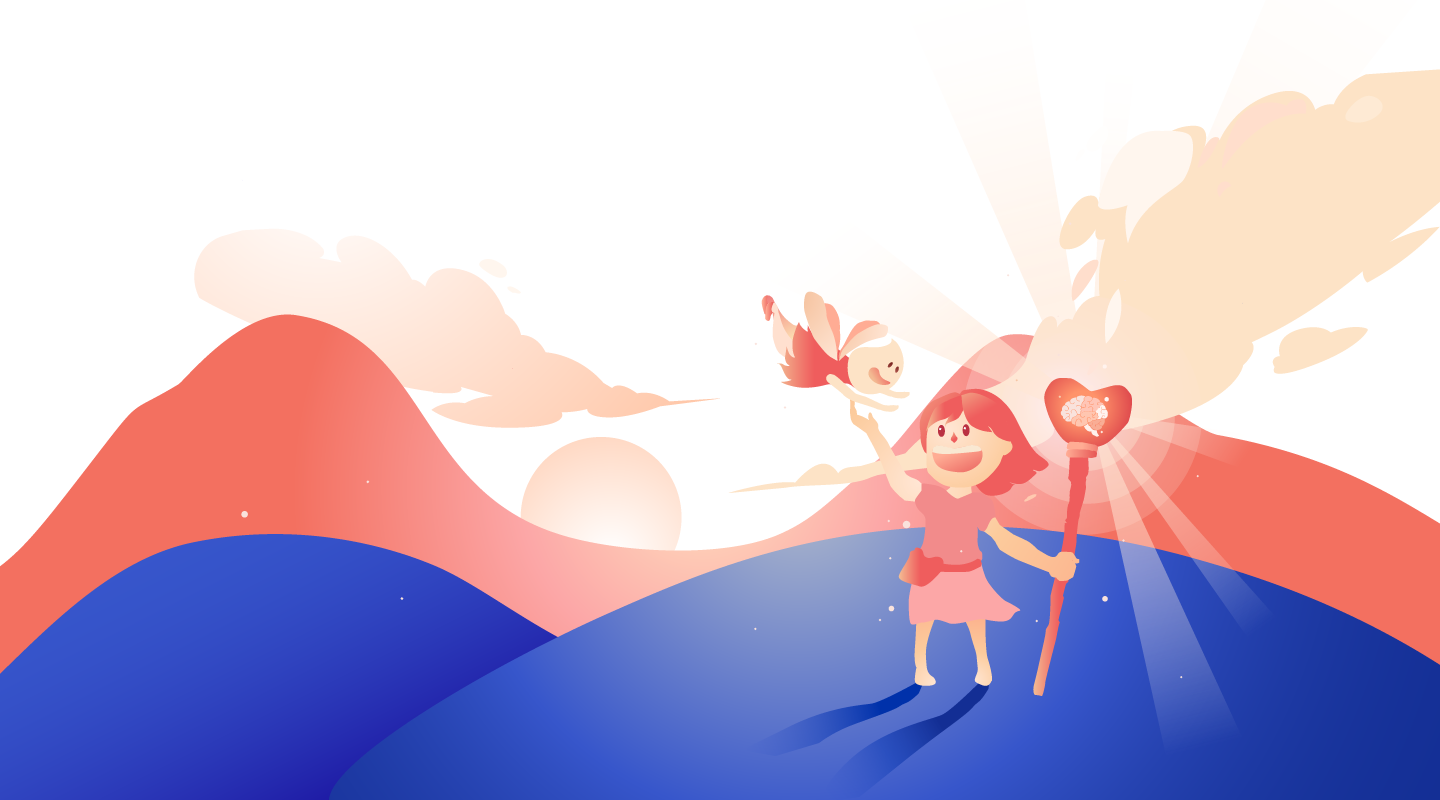
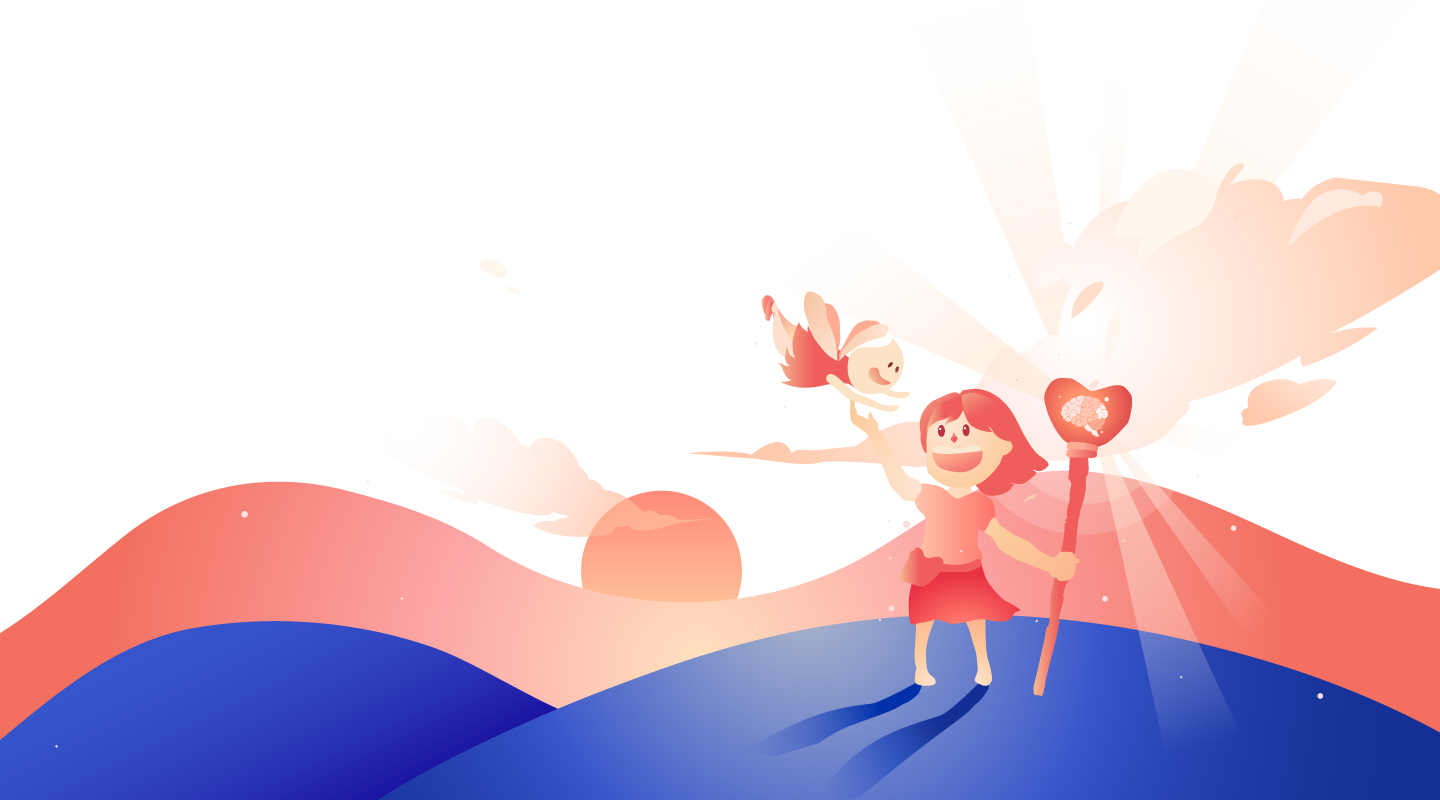
Update Homepage CSS and Asset

diff --git a/src/components/HomePageComponents/HomeCover/Cover.elements.js b/src/components/HomePageComponents/HomeCover/Cover.elements.js
@@ -1,6 +1,6 @@
 import styled from "styled-components";
 import coverImg from "../../../images/DesktopBackground-2.png";
-import { Link } from "react-router-dom";
+import { HashLink } from "react-router-hash-link";
 
 export const BaseSection = styled.div`
   position: relative;
@@ -129,7 +129,7 @@ export const ButtonWrapper = styled.div`
   justify-content: left;
 `;
 
-export const ButtonLink = styled(Link)`
+export const ButtonLink = styled(HashLink)`
   width: auto;
   @media screen and (max-width: 321px) {
     width: 50%;

diff --git a/src/components/HomePageComponents/HomeCover/Cover.js b/src/components/HomePageComponents/HomeCover/Cover.js
@@ -23,7 +23,7 @@ function Cover({ headline, subheadline, buttonLabel }) {
               <Subheadline>{subheadline}</Subheadline>
             </TextWrapper>
             <ButtonWrapper>
-              <ButtonLink to="/">
+              <ButtonLink to={"/get-involved"}>
                 <Button3
                   primary={true}
                   colLabel={true}

diff --git a/src/components/AboutUsComponents/OurStory/OurStory.elements.js b/src/components/AboutUsComponents/OurStory/OurStory.elements.js
@@ -166,7 +166,7 @@ export const ButtonHeadline = styled.h1`
   font-size: 2rem;
   line-height: 119.6%;
   color: #091f6b;
-  margin-top: 1rem;
+  margin-top: 4rem;
   margin-bottom: 2rem;
   @media screen and (max-width: 769px) {
     align-items: center;

diff --git a/src/components/HomePageComponents/Community/Community.elements.js b/src/components/HomePageComponents/Community/Community.elements.js
@@ -34,7 +34,7 @@ export const Headline = styled.h1`
   font-size: 2.3rem;
   line-height: 119.6%;
   color: #ffffff;
-  margin-bottom: 3rem;
+  margin-bottom: 2rem;
 
   @media screen and (max-width: 1024px) {
     font-size: 2.2rem;

diff --git a/src/components/HomePageComponents/Greet/Greet.elements.js b/src/components/HomePageComponents/Greet/Greet.elements.js
@@ -1,7 +1,7 @@
 import styled from "styled-components";
 
 export const BaseSection = styled.div`
-  padding: 40px 0px;
+  padding: 100px 0px;
   background: #ffffff;
   text-align: center;
 `;
